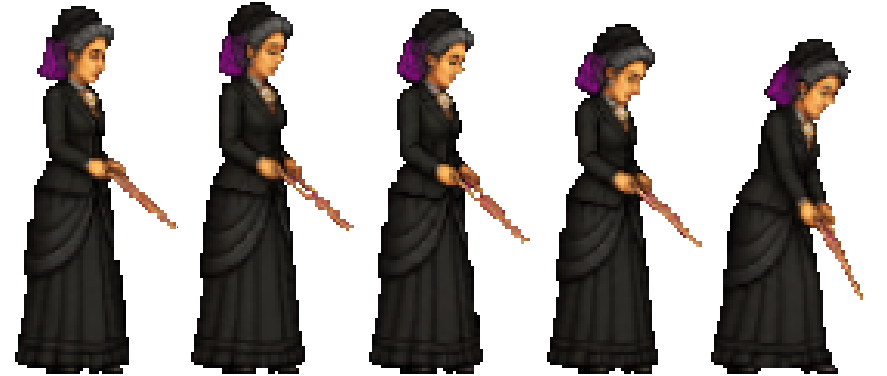
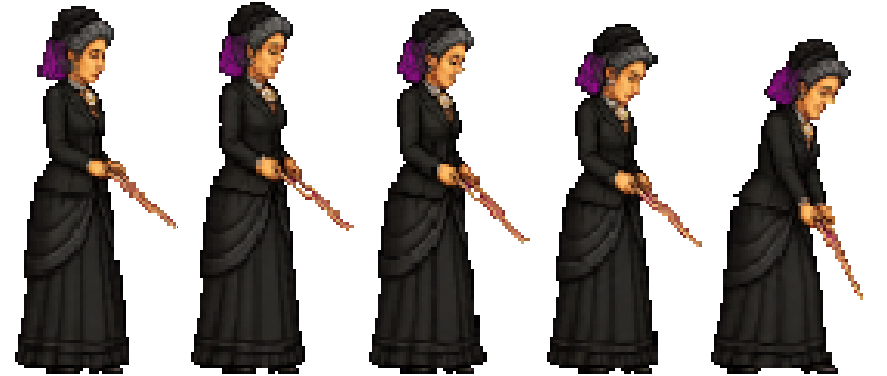
Errata 235: re-snap the panner and Ozymandia by sampling, not averaging (one-level.py --resnap)
Claude-Session: https://claude.ai/code/session_01FXbCus2Hm36NL2YuHFGB8T

diff --git a/tools/art/one-level.py b/tools/art/one-level.py
@@ -17,6 +17,10 @@ Usage: one-level.py [--n 115] [--dry] [--only <path part> ...]   prints every sh
 --only snaps just the sheets whose path contains one of the parts: a NEW sheet is snapped on its
 own. Run over the whole game again, it rewrote 280 finished sheets -- snapping a frame that was
 snapped and then despilled moves its outline by a pixel -- so a finished sheet is never re-snapped.
+
+--resnap is the exception (errata 235): a finished sheet whose figureHeight has moved -- redrawn at Thad's
+height -- is re-snapped with --only and --resnap, which samples each new block from the old drawing at its
+centre instead of averaging it, so it stays crisp. Prefer the sheet's pre-snap drawing where git has one.
 """
 import json, os, sys
 import numpy as np
@@ -25,6 +29,7 @@ from PIL import Image
 ROOT = os.path.dirname(os.path.dirname(os.path.dirname(os.path.abspath(__file__))))
 N = float(sys.argv[sys.argv.index('--n') + 1]) if '--n' in sys.argv else 115.0
 DRY = '--dry' in sys.argv
+RESNAP = '--resnap' in sys.argv
 ONLY = []
 if '--only' in sys.argv:
     for a in sys.argv[sys.argv.index('--only') + 1:]:
@@ -78,7 +83,11 @@ def snap(a, b):
     crop[:, :cw] = a[t:bt, l:l + cw]
     pre = crop.astype(np.float32); pre[..., :3] *= pre[..., 3:4] / 255
     region = (0.0, 0.0, nw * bb, float(H))
-    small = np.stack([np.asarray(Image.fromarray(pre[..., c], 'F').resize((nw, nh), Image.BOX, box=region)) for c in range(4)], -1)
+    # RESNAP (errata 235): a sheet already snapped at another level is SAMPLED at each new block's centre,
+    # not averaged. Averaging blocks that straddle the old grid smeared the panner's face (his eyes went);
+    # a finished drawing at a level a few percent off keeps every colour it has.
+    mode = Image.NEAREST if RESNAP else Image.BOX
+    small = np.stack([np.asarray(Image.fromarray(pre[..., c], 'F').resize((nw, nh), mode, box=region)) for c in range(4)], -1)
     al = small[..., 3]
     keep = al >= 128
     for r in {0, nh - 1}:
